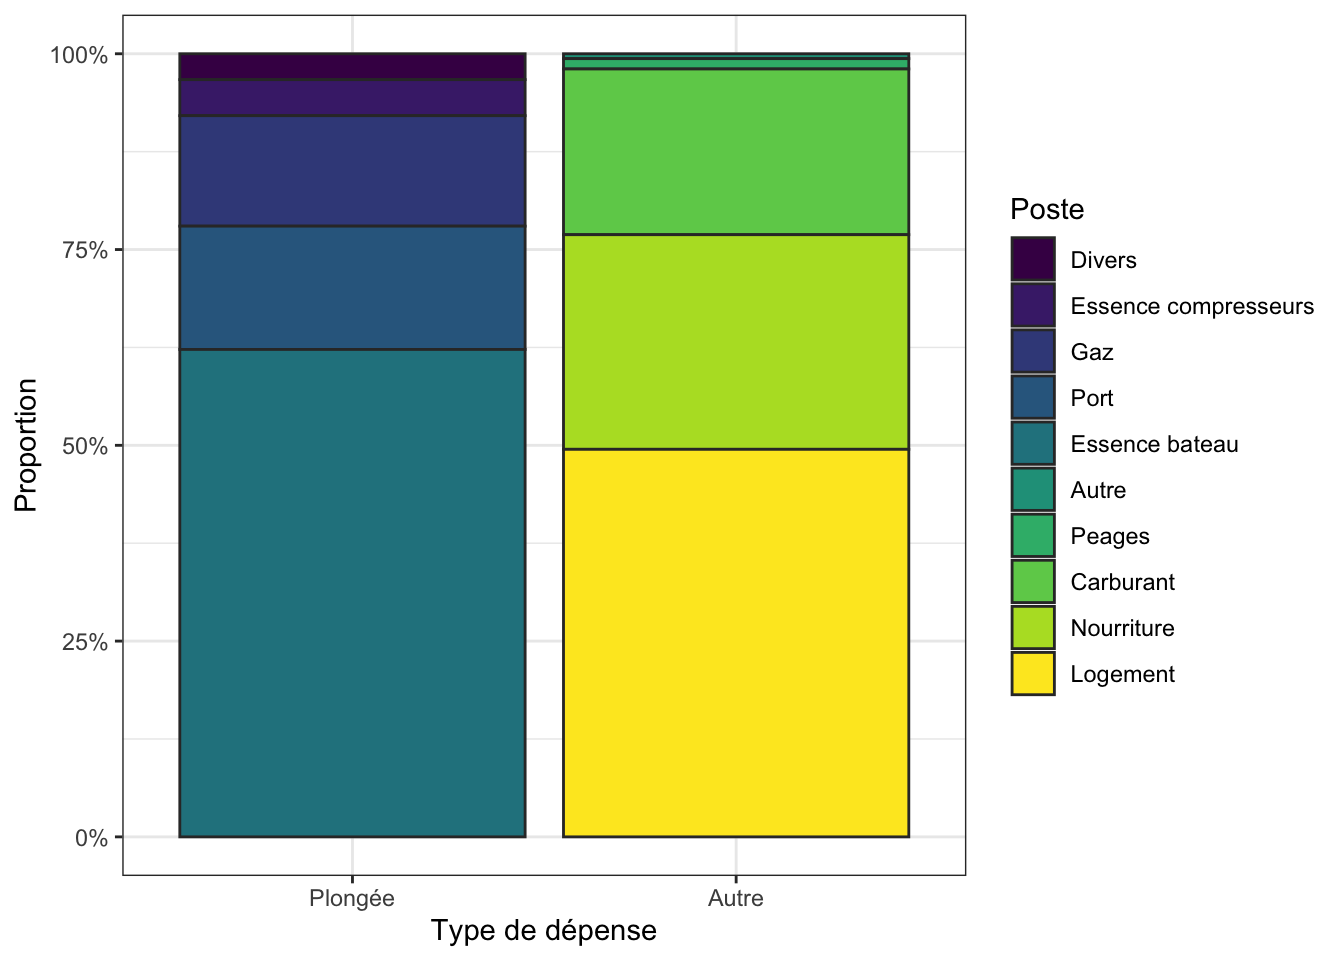
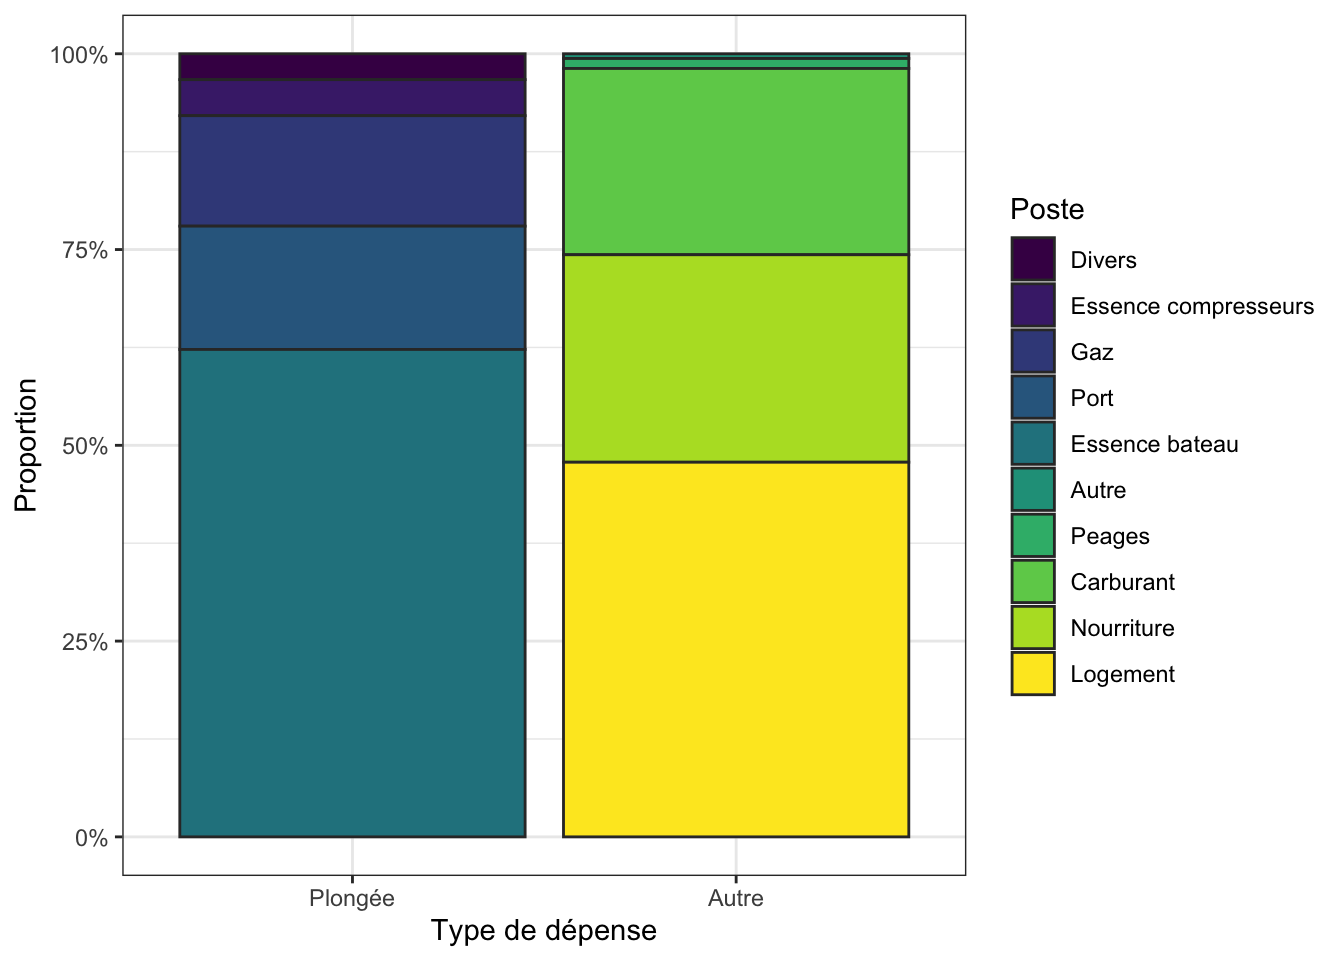
Oubli ticket essence TDI Baptiste pour la sortie Camaret 2024

Changed region(s): [[0.4062, 0.2188, 0.6875, 0.2812], [0.4062, 0.4688, 0.6875, 0.5]]

diff --git a/docs/Camaret2024.html b/docs/Camaret2024.html
@@ -740,11 +740,11 @@ Table&nbsp;4: Dépenses hors plongées engagées par les participants à la sort
 <td style="text-align: right;">Baptiste</td>
 <td style="text-align: right;">0.00€</td>
 <td style="text-align: right;">0.00€</td>
-<td style="text-align: right;">207.65€</td>
+<td style="text-align: right;">329.15€</td>
 <td style="text-align: right;">0.00€</td>
 <td style="text-align: right;">0€</td>
 <td style="text-align: right;">0€</td>
-<td style="text-align: right;">207.65€</td>
+<td style="text-align: right;">329.15€</td>
 </tr>
 <tr class="even">
 <td style="text-align: right;">Benoît</td>
@@ -830,11 +830,11 @@ Table&nbsp;4: Dépenses hors plongées engagées par les participants à la sort
 <td style="text-align: right; font-weight: bold;">Total</td>
 <td style="text-align: right; font-weight: bold;">1,745.62€</td>
 <td style="text-align: right; font-weight: bold;">966.74€</td>
-<td style="text-align: right; font-weight: bold;">746.40€</td>
+<td style="text-align: right; font-weight: bold;">867.90€</td>
 <td style="text-align: right; font-weight: bold;">46.50€</td>
 <td style="text-align: right; font-weight: bold;">0€</td>
 <td style="text-align: right; font-weight: bold;">22€</td>
-<td style="text-align: right; font-weight: bold;">3,527.26€</td>
+<td style="text-align: right; font-weight: bold;">3,648.76€</td>
 </tr>
 </tbody>
 </table>
@@ -930,7 +930,7 @@ Table&nbsp;6: Coûts unitaires par personne
 <tr class="odd">
 <td style="text-align: right;">22.97€</td>
 <td style="text-align: right;">4.08€</td>
-<td style="text-align: right;">67.85€</td>
+<td style="text-align: right;">78.90€</td>
 <td style="text-align: right;">4.23€</td>
 <td style="text-align: right;">2€</td>
 </tr>
@@ -1011,15 +1011,15 @@ Table&nbsp;7: Bilan des coûts par plongeur et par poste
 </tr>
 <tr class="even">
 <td style="text-align: right;">Carburant</td>
-<td style="text-align: right;">67.85€</td>
-<td style="text-align: right;">67.85€</td>
-<td style="text-align: right;">67.85€</td>
-<td style="text-align: right;">67.85€</td>
-<td style="text-align: right;">135.71€</td>
-<td style="text-align: right;">67.85€</td>
-<td style="text-align: right;">135.71€</td>
-<td style="text-align: right;">67.85€</td>
-<td style="text-align: right;">67.85€</td>
+<td style="text-align: right;">78.90€</td>
+<td style="text-align: right;">78.90€</td>
+<td style="text-align: right;">78.90€</td>
+<td style="text-align: right;">78.90€</td>
+<td style="text-align: right;">157.80€</td>
+<td style="text-align: right;">78.90€</td>
+<td style="text-align: right;">157.80€</td>
+<td style="text-align: right;">78.90€</td>
+<td style="text-align: right;">78.90€</td>
 </tr>
 <tr class="odd">
 <td style="text-align: right;">Peage</td>
@@ -1047,15 +1047,15 @@ Table&nbsp;7: Bilan des coûts par plongeur et par poste
 </tr>
 <tr class="odd">
 <td style="text-align: right; font-weight: bold;">Total</td>
-<td style="text-align: right; font-weight: bold;">398.28€</td>
-<td style="text-align: right; font-weight: bold;">475.32€</td>
-<td style="text-align: right; font-weight: bold;">463.08€</td>
-<td style="text-align: right; font-weight: bold;">450.12€</td>
-<td style="text-align: right; font-weight: bold;">770.65€</td>
-<td style="text-align: right; font-weight: bold;">450.12€</td>
-<td style="text-align: right; font-weight: bold;">795.12€</td>
-<td style="text-align: right; font-weight: bold;">463.08€</td>
-<td style="text-align: right; font-weight: bold;">285.32€</td>
+<td style="text-align: right; font-weight: bold;">409.33€</td>
+<td style="text-align: right; font-weight: bold;">486.37€</td>
+<td style="text-align: right; font-weight: bold;">474.13€</td>
+<td style="text-align: right; font-weight: bold;">461.17€</td>
+<td style="text-align: right; font-weight: bold;">792.74€</td>
+<td style="text-align: right; font-weight: bold;">461.17€</td>
+<td style="text-align: right; font-weight: bold;">817.21€</td>
+<td style="text-align: right; font-weight: bold;">474.13€</td>
+<td style="text-align: right; font-weight: bold;">296.36€</td>
 </tr>
 </tbody>
 </table>
@@ -1081,49 +1081,49 @@ Table&nbsp;7: Bilan des coûts par plongeur et par poste
 </thead>
 <tbody>
 <tr class="odd">
-<td style="text-align: right;">Baptiste</td>
-<td style="text-align: right;">rembourse à l'AP</td>
-<td style="text-align: right;">7.53€</td>
-</tr>
-<tr class="even">
 <td style="text-align: right;">Carole</td>
 <td style="text-align: right;">rembourse à l'AP</td>
-<td style="text-align: right;">65.94€</td>
+<td style="text-align: right;">76.99€</td>
 </tr>
-<tr class="odd">
+<tr class="even">
 <td style="text-align: right;">Jean-Claude</td>
 <td style="text-align: right;">rembourse à l'AP</td>
-<td style="text-align: right;">201.39€</td>
-</tr>
-<tr class="even">
-<td style="text-align: right;">Jérôme</td>
-<td style="text-align: right;">rembourse à l'AP</td>
-<td style="text-align: right;">41.17€</td>
+<td style="text-align: right;">212.44€</td>
 </tr>
 <tr class="odd">
-<td style="text-align: right;">Pierre</td>
+<td style="text-align: right;">Jérôme</td>
 <td style="text-align: right;">rembourse à l'AP</td>
-<td style="text-align: right;">203.72€</td>
+<td style="text-align: right;">63.26€</td>
 </tr>
 <tr class="even">
+<td style="text-align: right;">Pierre</td>
+<td style="text-align: right;">rembourse à l'AP</td>
+<td style="text-align: right;">225.81€</td>
+</tr>
+<tr class="odd">
 <td style="text-align: right;">Thomas</td>
 <td style="text-align: right;">rembourse à l'AP</td>
-<td style="text-align: right;">166.42€</td>
+<td style="text-align: right;">177.47€</td>
+</tr>
+<tr class="even">
+<td style="text-align: right;">Baptiste</td>
+<td style="text-align: right;">se fait rembourser par l'AP</td>
+<td style="text-align: right;">102.92€</td>
 </tr>
 <tr class="odd">
 <td style="text-align: right;">Benoît</td>
 <td style="text-align: right;">se fait rembourser par l'AP</td>
-<td style="text-align: right;">106.05€</td>
+<td style="text-align: right;">95.00€</td>
 </tr>
 <tr class="even">
 <td style="text-align: right;">Béatrice</td>
 <td style="text-align: right;">se fait rembourser par l'AP</td>
-<td style="text-align: right;">102.52€</td>
+<td style="text-align: right;">91.48€</td>
 </tr>
 <tr class="odd">
 <td style="text-align: right;">Nathalie</td>
 <td style="text-align: right;">se fait rembourser par l'AP</td>
-<td style="text-align: right;">240.71€</td>
+<td style="text-align: right;">229.66€</td>
 </tr>
 </tbody>
 </table>
@@ -1154,7 +1154,7 @@ Table&nbsp;7: Bilan des coûts par plongeur et par poste
 <div id="fig-plong" class="quarto-figure quarto-figure-center quarto-float anchored">
 <figure class="quarto-float quarto-float-fig figure">
 <div aria-describedby="fig-plong-caption-0ceaefa1-69ba-4598-a22c-09a6ac19f8ca">
-<a href="Camaret2024_files/figure-html/fig-plong-1.png" class="lightbox" data-glightbox="description: .lightbox-desc-1" data-gallery="quarto-lightbox-gallery-1"><img src="Camaret2024_files/figure-html/fig-plong-1.png" class="img-fluid figure-img" width="672"></a>
+<a href="Camaret2024_files/figure-html/fig-plong-1.png" class="lightbox" data-gallery="quarto-lightbox-gallery-1" data-glightbox="description: .lightbox-desc-1"><img src="Camaret2024_files/figure-html/fig-plong-1.png" class="img-fluid figure-img" width="672"></a>
 </div>
 <figcaption class="quarto-float-caption-bottom quarto-float-caption quarto-float-fig" id="fig-plong-caption-0ceaefa1-69ba-4598-a22c-09a6ac19f8ca">
 Figure&nbsp;1: Plongeurs à bord du Valiant lors de chaque plongée
@@ -1168,7 +1168,7 @@ Figure&nbsp;1: Plongeurs à bord du Valiant lors de chaque plongée
 <div id="fig-dep" class="quarto-figure quarto-figure-center quarto-float anchored">
 <figure class="quarto-float quarto-float-fig figure">
 <div aria-describedby="fig-dep-caption-0ceaefa1-69ba-4598-a22c-09a6ac19f8ca">
-<a href="Camaret2024_files/figure-html/fig-dep-1.png" class="lightbox" data-glightbox="description: .lightbox-desc-2" data-gallery="quarto-lightbox-gallery-2"><img src="Camaret2024_files/figure-html/fig-dep-1.png" class="img-fluid figure-img" width="672"></a>
+<a href="Camaret2024_files/figure-html/fig-dep-1.png" class="lightbox" data-gallery="quarto-lightbox-gallery-2" data-glightbox="description: .lightbox-desc-2"><img src="Camaret2024_files/figure-html/fig-dep-1.png" class="img-fluid figure-img" width="672"></a>
 </div>
 <figcaption class="quarto-float-caption-bottom quarto-float-caption quarto-float-fig" id="fig-dep-caption-0ceaefa1-69ba-4598-a22c-09a6ac19f8ca">
 Figure&nbsp;2: Proportion des dépenses par poste, pour la plongée et le reste
@@ -1182,7 +1182,7 @@ Figure&nbsp;2: Proportion des dépenses par poste, pour la plongée et le reste
 <div id="fig-all" class="quarto-figure quarto-figure-center quarto-float anchored">
 <figure class="quarto-float quarto-float-fig figure">
 <div aria-describedby="fig-all-caption-0ceaefa1-69ba-4598-a22c-09a6ac19f8ca">
-<a href="Camaret2024_files/figure-html/fig-all-1.png" class="lightbox" data-glightbox="description: .lightbox-desc-3" data-gallery="quarto-lightbox-gallery-3"><img src="Camaret2024_files/figure-html/fig-all-1.png" class="img-fluid figure-img" width="672"></a>
+<a href="Camaret2024_files/figure-html/fig-all-1.png" class="lightbox" data-gallery="quarto-lightbox-gallery-3" data-glightbox="description: .lightbox-desc-3"><img src="Camaret2024_files/figure-html/fig-all-1.png" class="img-fluid figure-img" width="672"></a>
 </div>
 <figcaption class="quarto-float-caption-bottom quarto-float-caption quarto-float-fig" id="fig-all-caption-0ceaefa1-69ba-4598-a22c-09a6ac19f8ca">
 Figure&nbsp;3: Proportion des dépenses de la sortie, tous postes confondus
@@ -1618,7 +1618,7 @@ window.document.addEventListener("DOMContentLoaded", function (event) {
 });
 </script>
 </div> <!-- /content -->
-<script>var lightboxQuarto = GLightbox({"selector":".lightbox","openEffect":"zoom","descPosition":"bottom","closeEffect":"zoom","loop":false});
+<script>var lightboxQuarto = GLightbox({"openEffect":"zoom","selector":".lightbox","descPosition":"bottom","closeEffect":"zoom","loop":false});
 window.onload = () => {
   lightboxQuarto.on('slide_before_load', (data) => {
     const { slideIndex, slideNode, slideConfig, player, trigger } = data;
